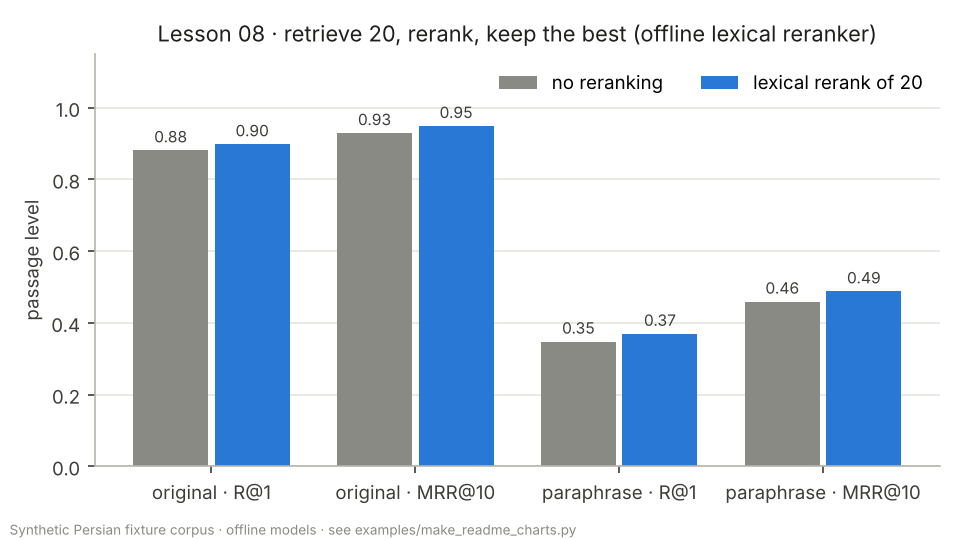
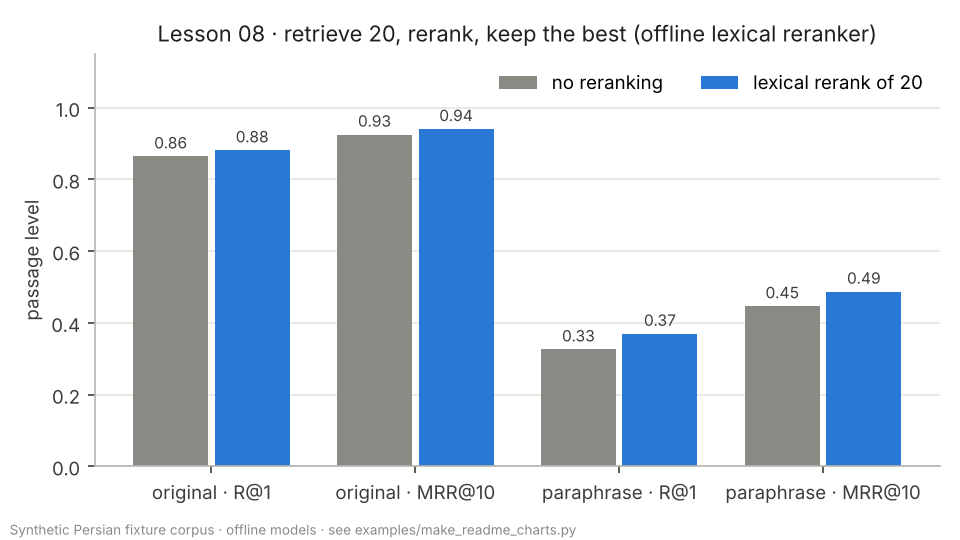
docs: recompute every benchmark number after the fixture changes
Rerun all examples, make_readme_charts.py and the lesson chart scripts;
regenerate docs/eval/baseline.json, readme_numbers.json, report.md and the
charts, and update the numbers quoted in lessons, READMEs, ROADMAP baselines
and docs/results.md from the recomputed output. Locked test expectations are
updated from the recomputed values only. Where a claim no longer held exactly
(weighted 0.5/0.5 now edges RRF within noise; diacritics ablation moves one
question) the text says so.

diff --git a/tests/test_benchmark.py b/tests/test_benchmark.py
@@ -28,11 +28,11 @@ def test_offline_embedding_table(fixtures) -> None:  # type: ignore[no-untyped-d
     docs, qa = fixtures
     assert len(docs) == 25 and sum(q.answerable for q in qa) == 59
     hashing = benchmark_embedding(HashingEmbedding(), docs, qa)
-    assert _rounded(hashing["passage"]) == (0.763, 0.983, 0.858)
+    assert _rounded(hashing["passage"]) == (0.729, 0.983, 0.841)
     word = benchmark_embedding(TfidfEmbedding("word"), docs, qa)
     assert _rounded(word["passage"]) == (0.729, 0.932, 0.836)
     char = benchmark_embedding(TfidfEmbedding("char"), docs, qa)
-    assert _rounded(char["passage"]) == (0.797, 0.983, 0.886)
+    assert _rounded(char["passage"]) == (0.797, 0.983, 0.883)
 
 
 def test_normalisation_must_match(fixtures) -> None:  # type: ignore[no-untyped-def]
@@ -45,7 +45,7 @@ def test_normalisation_must_match(fixtures) -> None:  # type: ignore[no-untyped-
         "passage"
     ]
     assert round(both.mrr, 3) == 0.836
-    assert round(index_only.mrr, 3) == 0.682
+    assert round(index_only.mrr, 3) == 0.680
 
 
 def test_index_documents_fits_tfidf(fixtures) -> None:  # type: ignore[no-untyped-def]

diff --git a/tests/test_rag.py b/tests/test_rag.py
@@ -191,7 +191,9 @@ def test_validate_qa_finds_problems() -> None:
 
     docs = [SHOP]
     items = [
-        QAItem(id="1", question="هزینهٔ پیک؟", answer="۲۰۰", doc_id="shop", evidence="۲۰۰ هزار تومان"),
+        QAItem(
+            id="1", question="هزینهٔ پیک؟", answer="۲۰۰", doc_id="shop", evidence="۲۰۰ هزار تومان"
+        ),
         QAItem(id="2", question="؟", answer="-", doc_id="shop"),
         QAItem(id="2", question=" ", answer="-", doc_id=None, evidence="x"),
         QAItem(id="3", question="پیک؟", answer="-", doc_id="shop", evidence="۵۰ هزار تومان"),

diff --git a/tests/test_chunking.py b/tests/test_chunking.py
@@ -191,7 +191,7 @@ def test_numbers_quoted_in_lesson04() -> None:
     docs = bench.load_directory(CORPUS, "*.md")
     n, _, fixed = bench.run(docs, FixedSizeChunker(200, 25))
     assert n == 175
-    assert (round(fixed["P-R@3"], 3), round(fixed["P-MRR"], 3)) == (0.780, 0.670)
+    assert (round(fixed["P-R@3"], 3), round(fixed["P-MRR"], 3)) == (0.763, 0.660)
     n, _, best = bench.run(docs, RecursiveChunker(400, 50), heading_context=True)
     assert n == 109
-    assert (round(best["P-R@3"], 3), round(best["P-MRR"], 3)) == (0.983, 0.858)
+    assert (round(best["P-R@3"], 3), round(best["P-MRR"], 3)) == (0.983, 0.841)

diff --git a/lessons/11-agentic-rag/tests/test_lesson11_agent.py b/lessons/11-agentic-rag/tests/test_lesson11_agent.py
@@ -259,7 +259,7 @@ def test_your_agent_reproduces_the_lesson_numbers(ag: ModuleType, rag: PersianRA
     para = evaluate_pipeline(
         agent, load_fixture_benchmark(qa_file="qa_paraphrase.jsonl")[1], n_resamples=10
     )
-    assert original.metrics["answer_f1"] == pytest.approx(0.314, abs=1e-3)
+    assert original.metrics["answer_f1"] == pytest.approx(0.301, abs=1e-3)
     assert original.metrics["abstention_f1"] == pytest.approx(0.714, abs=1e-3)
     assert para.metrics["retrieval_r@1"] == pytest.approx(0.478, abs=1e-3)
     assert para.metrics["answered_rate"] == pytest.approx(0.348, abs=1e-3)

diff --git a/lessons/07-hybrid-search/tests/test_lesson07_hybrid.py b/lessons/07-hybrid-search/tests/test_lesson07_hybrid.py
@@ -242,6 +242,6 @@ def test_hybrid_beats_both_on_the_fixtures(rt: ModuleType) -> None:
     dense = rt.DenseRetriever(store)
     hybrid = rt.HybridRetriever([bm25, dense])
     m_bm25, m_dense, m_hybrid = (_mrr(qa, r) for r in (bm25, dense, hybrid))
-    assert m_bm25 > 0.85 and m_dense > 0.85
+    assert m_bm25 > 0.83 and m_dense > 0.83
     assert m_hybrid > max(m_bm25, m_dense)
     assert _mrr(para, hybrid) < m_hybrid - 0.3

diff --git a/lessons/10-evaluation/tests/test_lesson10_eval.py b/lessons/10-evaluation/tests/test_lesson10_eval.py
@@ -55,7 +55,9 @@ def test_token_f1(gm: ModuleType, pred: str, ref: str, f1: float) -> None:
 
 
 def _item() -> QAItem:
-    return QAItem(id="q", question="؟", answer="200", doc_id="ship", evidence="پیک در تهران 200 هزار")
+    return QAItem(
+        id="q", question="؟", answer="200", doc_id="ship", evidence="پیک در تهران 200 هزار"
+    )
 
 
 @hint(

diff --git a/lessons/08-reranking/README.fa.md b/lessons/08-reranking/README.fa.md
@@ -63,48 +63,48 @@ python examples/reranking.py --chart
 
 | حالت | اصلی R@1 | R@3 | MRR@10 | بازنویسی R@1 | R@3 | MRR@10 |
 |---|---|---|---|---|---|---|
-| بدون بازرتبهبندی | 0.881 | 0.966 | 0.929 | 0.348 | 0.522 | 0.459 |
-| **بازرتبهساز واژگانی (پیشفرض)** | **0.898** | **1.000** | **0.949** | 0.370 | 0.522 | 0.488 |
-| بازرتبهساز واژگانی + وزن idf | 0.864 | 0.966 | 0.917 | 0.261 | 0.457 | 0.415 |
+| بدون بازرتبهبندی | 0.864 | 0.983 | 0.925 | 0.326 | 0.500 | 0.447 |
+| **بازرتبهساز واژگانی (پیشفرض)** | **0.881** | **1.000** | **0.941** | 0.370 | 0.543 | 0.487 |
+| بازرتبهساز واژگانی + وزن idf | 0.847 | 0.966 | 0.908 | 0.261 | 0.478 | 0.414 |
 
 ![R@1 با و بدون بازرتبهبندی](../../docs/images/rerank_r1.png)
 
-- روی پرسشهای اصلی، بازرتبهبندی **هر** پاسخ را به ۳ قطعهٔ اول آورد (R@3 = ۱٫۰۰۰) و R@1 یک پرسش بهتر شد (۰٫۸۸۱ → ۰٫۸۹۸). روی بازنویسیها هم کمی بهتر (MRR ۰٫۴۵۹ → ۰٫۴۸۸)، ولی اینها چند پرسشاند، نه یک تحول. درس ۱۰ با بوتاسترپ جفتی نشان میدهد این بهبود با ۵۹ پرسش **قابل اثبات نیست** (بازهٔ ۹۵٪ ΔMRR: [۰٫۰۱۴-، ۰٫۰۵۸+]).
+- روی پرسشهای اصلی، بازرتبهبندی **هر** پاسخ را به ۳ قطعهٔ اول آورد (R@3 = ۱٫۰۰۰) و R@1 یک پرسش بهتر شد (۰٫۸۶۴ → ۰٫۸۸۱). روی بازنویسیها هم کمی بهتر (MRR ۰٫۴۴۷ → ۰٫۴۸۷)، ولی اینها چند پرسشاند، نه یک تحول. درس ۱۰ با بوتاسترپ جفتی نشان میدهد این بهبود با ۵۹ پرسش **قابل اثبات نیست** (بازهٔ ۹۵٪ ΔMRR: [۰٫۰۱۴-، ۰٫۰۴۷+]).
 - **وزن idf ضرر زد** — برخلاف شهود. حدس ما: با idf، یک واژهٔ کمیاب ولی بیربط در پرسش (مثل «کهربا» که فقط در بعضی قطعهها آمده) وزن زیادی میگیرد. بهجای حدس زدن، `per_question` را باز کنید و ببینید.
 
 ### آزمایش جداسازی (Ablation): نزدیکی و پیشین
 
 | proximity / prior | اصلی R@1 | R@3 | MRR@10 | بازنویسی R@1 | R@3 | MRR@10 |
 |---|---|---|---|---|---|---|
-| 0.0 / 0.0 (پیشفرض) | 0.898 | 1.000 | 0.949 | 0.370 | 0.522 | 0.488 |
-| 0.0 / 0.2 | 0.898 | 1.000 | 0.946 | 0.370 | 0.543 | 0.494 |
-| 0.3 / 0.0 | 0.797 | 0.898 | 0.857 | 0.370 | 0.543 | 0.484 |
-| 0.3 / 0.2 | 0.898 | 0.966 | 0.941 | 0.435 | 0.543 | 0.523 |
-| 0.6 / 0.0 | 0.678 | 0.847 | 0.766 | 0.348 | 0.500 | 0.458 |
-| 0.6 / 0.2 | 0.763 | 0.881 | 0.831 | 0.326 | 0.522 | 0.456 |
+| 0.0 / 0.0 (پیشفرض) | 0.881 | 1.000 | 0.941 | 0.370 | 0.543 | 0.487 |
+| 0.0 / 0.2 | 0.881 | 1.000 | 0.938 | 0.370 | 0.543 | 0.492 |
+| 0.3 / 0.0 | 0.797 | 0.898 | 0.857 | 0.370 | 0.565 | 0.484 |
+| 0.3 / 0.2 | 0.881 | 0.983 | 0.936 | 0.413 | 0.565 | 0.504 |
+| 0.6 / 0.0 | 0.678 | 0.847 | 0.766 | 0.348 | 0.522 | 0.457 |
+| 0.6 / 0.2 | 0.763 | 0.881 | 0.831 | 0.326 | 0.543 | 0.454 |
 
 صادقانه: **نزدیکی روی پرسشهای اصلی در هیچ تنظیمی کمک نکرد** و بدون پیشین شدیداً ضرر زد (R@1 تا ۰٫۶۷۸ افتاد). یک دلیل احتمالی: قطعههای ما با «زمینهٔ سرتیتر» شروع میشوند (درس ۰۴)، و دو واژهٔ رایج پرسش که کنار هم در یک سرتیتر آمدهاند، امتیاز نزدیکی کامل میگیرند. پس پیشفرض را **۰** گذاشتیم؛ کدش هست تا روی دادهٔ خودتان امتحان کنید.
 
-و یک دام آموزنده: ردیف `0.3 / 0.2` روی بازنویسیها بهترین است (R@1 ۰٫۴۳۵). اگر تنظیم را روی مجموعهٔ بازنویسی انتخاب میکردیم، عدد گزارششدهمان **خوشبینانه** میشد — این همان **بیشبرازش روی مجموعهٔ آزمون (Overfitting to the test set)** است. روی یک مجموعه تنظیم کنید، روی مجموعهٔ دیگر گزارش دهید (درس ۱۰).
+و یک دام آموزنده: ردیف `0.3 / 0.2` روی بازنویسیها بهترین است (R@1 ۰٫۴۱۳). اگر تنظیم را روی مجموعهٔ بازنویسی انتخاب میکردیم، عدد گزارششدهمان **خوشبینانه** میشد — این همان **بیشبرازش روی مجموعهٔ آزمون (Overfitting to the test set)** است. روی یک مجموعه تنظیم کنید، روی مجموعهٔ دیگر گزارش دهید (درس ۱۰).
 
 ### چند نامزد؟ تأخیر و هزینه
 
 | fetch_k | اصلی R@1 | بازنویسی MRR@10 | زمان هر پرسش (ms، تقریبی) |
 |---|---|---|---|
-| — (بدون بازرتبهبندی) | 0.881 | 0.459 | ~2 |
-| 10 | 0.898 | 0.469 | ~5 |
-| 20 | 0.898 | 0.488 | ~9 |
-| 40 | 0.898 | 0.482 | ~17 |
+| — (بدون بازرتبهبندی) | 0.864 | 0.447 | ~2 |
+| 10 | 0.881 | 0.487 | ~5 |
+| 20 | 0.881 | 0.487 | ~9 |
+| 40 | 0.881 | 0.479 | ~17 |
 
 (زمانها روی کامپیوتر ما اندازهگیری شدهاند و روی کامپیوتر شما فرق میکنند؛ نسبتها مهماند.)
 
-زمان بازرتبهبندی با تعداد نامزدها **خطی** رشد میکند، ولی کیفیت بعد از ۲۰ دیگر بهتر نمیشود. با یک LLM این بدهبستان خیلی گرانتر است. `LLMReranker` نقطهای (Pointwise) است: برای هر نامزد یک فراخوانی. اسکریپت هزینه را **بدون** صدا زدن هیچ مدلی تخمین میزند (`FakeLLM` فراخوانیها را ثبت میکند و `estimate_tokens` درس ۰۴ توکنها را تخمین میزند):
+زمان بازرتبهبندی با تعداد نامزدها **خطی** رشد میکند، ولی کیفیت بعد از ۲۰ دیگر بهتر نمیشود (روی این داده MRR بازنویسیها با ۱۰ و ۲۰ نامزد برابر است و فقط R@3 بازنویسیها با ۲۰ کمی بهتر است). با یک LLM این بدهبستان خیلی گرانتر است. `LLMReranker` نقطهای (Pointwise) است: برای هر نامزد یک فراخوانی. اسکریپت هزینه را **بدون** صدا زدن هیچ مدلی تخمین میزند (`FakeLLM` فراخوانیها را ثبت میکند و `estimate_tokens` درس ۰۴ توکنها را تخمین میزند):
 
 | fetch_k | فراخوانی LLM برای هر پرسش | توکن ورودی برای هر پرسش (≈) |
 |---|---|---|
-| 10 | 10 | 2,866 |
-| 20 | 20 | 5,710 |
-| 40 | 40 | 11,384 |
+| 10 | 10 | 2,865 |
+| 20 | 20 | 5,713 |
+| 40 | 40 | 11,381 |
 
 یعنی بازرتبهبندی با LLM برای ۲۰ نامزد حدود **۲۰ برابر** فراخوانیها و چند برابر توکنهای خود تولید پاسخ است، بهعلاوهٔ تأخیر ۲۰ درخواست (مگر موازی بفرستید). برای همین در محصول معمولاً یک رمزگذار متقاطع کوچک کافی و خیلی ارزانتر است.
 

diff --git a/lessons/07-hybrid-search/README.fa.md b/lessons/07-hybrid-search/README.fa.md
@@ -117,25 +117,25 @@ python examples/hybrid_search.py --chart
 | BM25 + ریشهیابی سبک | 0.814 | 0.983 | 0.893 | 0.370 | 0.478 | 0.448 |
 | BM25 + شکستن در نیمفاصله | 0.763 | 0.949 | 0.858 | 0.391 | 0.500 | 0.474 |
 | BM25 + حذف ایستواژهها | 0.814 | 0.949 | 0.892 | 0.370 | 0.457 | 0.430 |
-| dense (hashing) | 0.763 | 0.983 | 0.858 | 0.196 | 0.457 | 0.355 |
-| **RRF (BM25 + dense)** | 0.831 | 0.983 | 0.903 | 0.391 | 0.478 | 0.475 |
-| **RRF (BM25 + ریشهیابی + dense)** | **0.881** | 0.966 | **0.929** | 0.348 | **0.522** | 0.468 |
-| وزنی ۰٫۵ / ۰٫۵ | 0.881 | 0.983 | 0.928 | 0.370 | 0.457 | 0.459 |
-| وزنی ۰٫۳ / ۰٫۷ (برداری سنگینتر) | 0.864 | 0.983 | 0.919 | 0.304 | 0.478 | 0.421 |
-| وزنی ۰٫۷ / ۰٫۳ (BM25 سنگینتر) | 0.864 | 0.966 | 0.918 | 0.413 | 0.457 | 0.467 |
+| dense (hashing) | 0.729 | 0.983 | 0.841 | 0.196 | 0.391 | 0.349 |
+| **RRF (BM25 + dense)** | 0.831 | 0.983 | 0.905 | 0.370 | 0.478 | 0.467 |
+| **RRF (BM25 + ریشهیابی + dense)** | 0.864 | 0.983 | 0.925 | 0.326 | **0.500** | 0.453 |
+| وزنی ۰٫۵ / ۰٫۵ | **0.881** | **1.000** | **0.932** | 0.370 | 0.457 | 0.455 |
+| وزنی ۰٫۳ / ۰٫۷ (برداری سنگینتر) | 0.864 | **1.000** | 0.924 | 0.304 | 0.478 | 0.421 |
+| وزنی ۰٫۷ / ۰٫۳ (BM25 سنگینتر) | 0.847 | 0.966 | 0.910 | 0.413 | 0.435 | 0.465 |
 
 ![MRR بازیابها روی دو مجموعهٔ پرسش](../../docs/images/hybrid_mrr.png)
 
 چه یاد گرفتیم:
 
-- **ترکیب جواب میدهد.** روی پرسشهای اصلی، RRF از هر دو روش تنها بهتر است (MRR ۰٫۹۰۳ در برابر ۰٫۸۷۲ و ۰٫۸۵۸)، چون دو روش اشتباههای **متفاوتی** میکنند: BM25 کلمهٔ دقیق را میخواهد و hashing شباهت حرفی را.
+- **ترکیب جواب میدهد.** روی پرسشهای اصلی، RRF از هر دو روش تنها بهتر است (MRR ۰٫۹۰۵ در برابر ۰٫۸۷۲ و ۰٫۸۴۱)، چون دو روش اشتباههای **متفاوتی** میکنند: BM25 کلمهٔ دقیق را میخواهد و hashing شباهت حرفی را.
 - **ریشهیابی سبک: کمک کوچک، نه قطعی.** روی پرسشهای اصلی MRR از ۰٫۸۷۲ به ۰٫۸۹۳ رسید (یعنی حدود دو پرسش جابهجا شد؛ هر پرسش ≈ ۱٫۷ واحد درصد R@1)، روی بازنویسیها ۰٫۴۳۴ → ۰٫۴۴۸ — در حد نویز. صادقانه: با این مجموعههای کوچک نمیتوانیم بگوییم واقعاً کمک میکند؛ فقط ضرر نمیزند. درس ۱۰ این را با **بوتاسترپ جفتی** میسنجد: بازهٔ ۹۵٪ بهبود MRR روی پرسشهای اصلی [۰٫۰۱۲-، ۰٫۰۵۹+] است — صفر داخلش است. از ادعاهای این جدول، فقط «ترکیبی بهتر از dense تنهاست» آن آزمون را پاس میکند.
 - **شکستن در نیمفاصله** روی بازنویسیها بهترین BM25 است (۰٫۴۷۴) ولی روی اصلی کمی بدتر — یک بدهبستان، نه برد.
 - **ایستواژهها (Stop words)** تقریباً اثری ندارند: `idf` خودش «است» و «در» را کموزن میکند.
-- **وزنها حساساند.** وزنی ۰٫۵/۰٫۵ روی اصلی همپای بهترین است، ولی ۰٫۳/۰٫۷ روی بازنویسیها R@1 را به ۰٫۳۰۴ میاندازد. RRF بدون هیچ تنظیمی نزدیک بهترین است؛ برای همین **پیشفرض خوبی** است.
-- **و درس بزرگ: فاصلهٔ واژگانی.** همهٔ روشها روی بازنویسیها حدود **نصف** میشوند (MRR ≈ ۰٫۴۵). هیچ ترفند توکنسازیای «کرایه» را به «هزینه» یا «پس دادن» را به «مرجوعی» وصل نمیکند. این دقیقاً جای **برداریساز عصبی** است — و `HashingEmbedding` با وجود اسم «dense» در اصل واژگانی است (روی بازنویسیها از BM25 هم بدتر: ۰٫۳۵۵).
+- **وزنها حساساند.** وزنی ۰٫۵/۰٫۵ روی اصلی کمی از RRF جلوتر است (MRR ۰٫۹۳۲ در برابر ۰٫۹۲۵ — حدود یک پرسش، در حد نویز)، ولی ۰٫۳/۰٫۷ روی بازنویسیها R@1 را به ۰٫۳۰۴ میاندازد و ۰٫۷/۰٫۳ روی اصلی به ۰٫۸۴۷. RRF بدون هیچ تنظیمی نزدیک بهترین است؛ برای همین **پیشفرض خوبی** است.
+- **و درس بزرگ: فاصلهٔ واژگانی.** همهٔ روشها روی بازنویسیها حدود **نصف** میشوند (MRR ≈ ۰٫۴۵). هیچ ترفند توکنسازیای «کرایه» را به «هزینه» یا «پس دادن» را به «مرجوعی» وصل نمیکند. این دقیقاً جای **برداریساز عصبی** است — و `HashingEmbedding` با وجود اسم «dense» در اصل واژگانی است (روی بازنویسیها از BM25 هم بدتر: ۰٫۳۴۹).
 
-> انتخاب دوره از این به بعد: **RRF (BM25 + ریشهیابی سبک + dense)** با ۲۰ نامزد از هر بازیاب. دلیل: بهترین روی پرسشهای اصلی، در حد بقیه روی بازنویسیها، و بدون وزنی که باید تنظیم شود.
+> انتخاب دوره از این به بعد: **RRF (BM25 + ریشهیابی سبک + dense)** با ۲۰ نامزد از هر بازیاب. دلیل: در حد بهترین روی پرسشهای اصلی (فقط وزنی ۰٫۵/۰٫۵ با اختلافی در حد نویز جلوتر است)، در حد بقیه روی بازنویسیها، و بدون وزنی که باید تنظیم شود.
 
 ### با یک مدل عصبی واقعی، روی کامپیوتر خودتان
 

diff --git a/lessons/10-evaluation/README.fa.md b/lessons/10-evaluation/README.fa.md
@@ -114,18 +114,18 @@ python -m parsrag.eval run --json report.json --markdown report.md
 
 | معیار | اصلی (۶۶ پرسش) | بازنویسی (۵۱ پرسش) |
 |---|---|---|
-| بازیابی R@1 | 0.898 [0.814, 0.966] | 0.370 [0.239, 0.500] |
-| بازیابی MRR@10 | 0.949 [0.907, 0.983] | 0.488 [0.372, 0.600] |
-| F1 پاسخ (امتناع = ۰) | 0.289 [0.221, 0.360] | 0.016 [0.005, 0.031] |
-| دقت ارجاع | 0.860 [0.772, 0.947] | 0.800 [0.500, 1.000] |
+| بازیابی R@1 | 0.881 [0.797, 0.949] | 0.370 [0.239, 0.500] |
+| بازیابی MRR@10 | 0.941 [0.898, 0.975] | 0.487 [0.373, 0.600] |
+| F1 پاسخ (امتناع = ۰) | 0.276 [0.210, 0.344] | 0.016 [0.005, 0.031] |
+| دقت ارجاع | 0.842 [0.737, 0.930] | 0.800 [0.500, 1.000] |
 | وفاداری (ابتکاری) | 1.000 | 1.000 |
 | «نمیدانم» F1 | 0.714 | 0.178 |
 | نرخ پاسخ به پرسشهای پاسخدار | 0.966 | 0.217 |
 
 چطور بخوانیم:
 
-- **وفاداری ۱٫۰ ولی F1 پاسخ ۰٫۲۹.** `FakeLLM` استخراجی جملهها را عیناً کپی میکند، پس هرگز توهم نمیزند — ولی اغلب جملهٔ **اشتباه** یا یک جملهٔ طولانی را برمیدارد. **وفادار بودن با درست بودن یکی نیست**؛ هر دو را بسنجید.
-- **دقت ارجاع ۰٫۸۶**: در ۱۴٪ پاسخها، قطعهٔ ارجاعشده شاهد پاسخ را ندارد — یعنی مدل از قطعهٔ دیگری جمله برداشته.
+- **وفاداری ۱٫۰ ولی F1 پاسخ ۰٫۲۸.** `FakeLLM` استخراجی جملهها را عیناً کپی میکند، پس هرگز توهم نمیزند — ولی اغلب جملهٔ **اشتباه** یا یک جملهٔ طولانی را برمیدارد. **وفادار بودن با درست بودن یکی نیست**؛ هر دو را بسنجید.
+- **دقت ارجاع ۰٫۸۴**: در ۱۶٪ پاسخها، قطعهٔ ارجاعشده شاهد پاسخ را ندارد — یعنی مدل از قطعهٔ دیگری جمله برداشته.
 - **روی بازنویسیها پایپلاین عملاً از کار میافتد**: فقط به ۲۲٪ پرسشهای پاسخدار جواب میدهد (آستانهٔ BM25 درس ۰۹) و F1 تقریباً صفر است. این مهمترین یافتهٔ این دوره تا اینجاست، و دقیقاً همان چیزی که یک برداریساز عصبی و یک LLM واقعی باید درست کنند. **اندازه بگیرید**، فرض نکنید.
 
 ## چقدر مطمئنیم؟ بوتاسترپ
@@ -135,7 +135,7 @@ python -m parsrag.eval run --json report.json --markdown report.md
 ```python
 from parsrag.eval.stats import bootstrap_ci, paired_bootstrap
 
-bootstrap_ci(per_question_rr)            # Interval(mean=0.949, low=0.907, high=0.983)
+bootstrap_ci(per_question_rr)            # Interval(mean=0.941, low=0.898, high=0.975)
 paired_bootstrap(rr_before, rr_after)    # بازهٔ اطمینانِ «بعد − قبل» روی همان پرسشها
 ```
 
@@ -148,9 +148,9 @@ python examples/evaluation_report.py
 | ادعا | اصلی ΔMRR [۹۵٪] | بازنویسی ΔMRR [۹۵٪] |
 |---|---|---|
 | درس ۰۷: ریشهیابی سبک به BM25 کمک میکند | +0.021 [-0.012, +0.059] **نشان داده نشد** | +0.017 [-0.040, +0.082] **نشان داده نشد** |
-| درس ۰۷: ترکیبی بهتر از dense تنهاست | +0.072 [+0.018, +0.134] **واقعی** | +0.117 [+0.032, +0.211] **واقعی** |
-| درس ۰۷: ترکیبی بهتر از BM25 + ریشهیابی است | +0.036 [-0.008, +0.084] **نشان داده نشد** | +0.020 [-0.046, +0.077] **نشان داده نشد** |
-| درس ۰۸: بازرتبهبندی کمک میکند | +0.020 [-0.014, +0.058] **نشان داده نشد** | +0.029 [-0.039, +0.103] **نشان داده نشد** |
+| درس ۰۷: ترکیبی بهتر از dense تنهاست | +0.084 [+0.028, +0.148] **واقعی** | +0.109 [+0.031, +0.196] **واقعی** |
+| درس ۰۷: ترکیبی بهتر از BM25 + ریشهیابی است | +0.032 [-0.005, +0.074] **نشان داده نشد** | +0.007 [-0.056, +0.067] **نشان داده نشد** |
+| درس ۰۸: بازرتبهبندی کمک میکند | +0.016 [-0.014, +0.047] **نشان داده نشد** | +0.040 [-0.028, +0.114] **نشان داده نشد** |
 
 از چهار «بهبود» درسهای قبل، فقط **یکی** با این تعداد پرسش قابل دفاع است. بقیه شاید واقعی باشند، شاید نه — دادههای ما نمیتواند بگوید. «نشان داده نشد» یعنی «نمیدانیم»، نه «اثری ندارد».
 
@@ -181,7 +181,7 @@ python -m parsrag.eval gate --baseline docs/eval/baseline.json
 | set | metric | baseline | current | Δ | |
 |---|---|---|---|---|---|
 | original | abstention_f1 | 0.714 | 0.714 | +0.000 | ✔ |
-| original | answer_f1 | 0.289 | 0.289 | +0.000 | ✔ |
+| original | answer_f1 | 0.276 | 0.276 | +0.000 | ✔ |
 ...
 ✔ no metric dropped by more than 0.02 — gate passed.
 ```

diff --git a/lessons/04-chunking/README.fa.md b/lessons/04-chunking/README.fa.md
@@ -135,18 +135,18 @@ python examples/chunking_benchmark.py --chart    # + نمودار (نیاز به
 ```text
 strategy                  size chunks avg len   P-R@1  P-R@3  P-R@5  P-MRR  D-R@1  D-R@3
 -----------------------------------------------------------------------------------------
-fixed                      200    175     188   0.525  0.780  0.847  0.670  0.881  0.966
-recursive                  200    204     141   0.576  0.864  0.966  0.732  0.864  0.949
-recursive+headings         200    204     187   0.712  0.966  0.983  0.825  0.847  0.966
-fixed                      400     96     339   0.644  0.864  0.949  0.776  0.847  0.983
+fixed                      200    175     188   0.525  0.763  0.847  0.660  0.898  0.983
+recursive                  200    204     141   0.576  0.864  0.966  0.731  0.864  0.966
+recursive+headings         200    204     187   0.695  0.966  0.983  0.820  0.847  0.966
+fixed                      400     96     339   0.661  0.898  0.949  0.788  0.864  0.983
 recursive                  400    109     266   0.712  0.949  0.966  0.824  0.814  0.983
-recursive+headings         400    109     310   0.763  0.983  0.983  0.858  0.847  0.983
+recursive+headings         400    109     310   0.729  0.983  0.983  0.841  0.847  0.983
 fixed                      800     50     630   0.814  0.932  0.966  0.881  0.932  0.983
-recursive                  800     56     517   0.831  0.949  0.983  0.894  0.932  0.983
+recursive                  800     56     517   0.831  0.949  0.966  0.894  0.949  0.983
 recursive+headings         800     56     560   0.915  0.983  0.983  0.948  0.966  0.983
-sentence-window w=0          -    369      77   0.542  0.797  0.881  0.684  0.881  0.966
-sentence-window w=1          -    369     227   0.610  0.864  0.966  0.758  0.881  0.966
-sentence-window w=2          -    369     365   0.695  0.898  0.966  0.810  0.881  0.966
+sentence-window w=0          -    369      77   0.542  0.797  0.864  0.687  0.881  0.966
+sentence-window w=1          -    369     227   0.610  0.881  0.949  0.763  0.881  0.966
+sentence-window w=2          -    369     366   0.695  0.915  0.949  0.816  0.881  0.966
 ```
 
 (`P-` = سطح قطعه، `D-` = سطح سند، `avg len` = میانگین نویسههایی که هر نتیجه به LLM میدهد.)
@@ -155,11 +155,11 @@ sentence-window w=2          -    369     365   0.695  0.898  0.966  0.810  0.88
 
 چه یاد گرفتیم:
 
-- **ساختار کمک میکند.** در هر سه اندازه، بازگشتی از اندازهٔ ثابت بهتر است (MRR در ۲۰۰ نویسه: ۰٫۶۷۰ → ۰٫۷۳۲) — با متن کمتر برای هر قطعه.
-- **زمینهٔ سرتیتر ارزانترین بُرد است.** در ۲۰۰ نویسه، Recall@3 سطح قطعه از ۰٫۸۶۴ به ۰٫۹۶۶ و MRR از ۰٫۷۳۲ به ۰٫۸۲۵ رسید؛ فقط با اضافه کردن یک خط عنوان.
-- **سطح سند تقریباً ثابت است** (D-R@3 بین ۰٫۹۵ و ۰٫۹۸). تفاوت راهبردها در پیدا کردن *قطعهٔ درست* است، نه سند درست. اگر فقط معیار سطح سند را نگاه میکردیم، این را نمیدیدیم.
+- **ساختار کمک میکند.** در هر سه اندازه، بازگشتی از اندازهٔ ثابت بهتر است (MRR در ۲۰۰ نویسه: ۰٫۶۶۰ → ۰٫۷۳۱) — با متن کمتر برای هر قطعه.
+- **زمینهٔ سرتیتر ارزانترین بُرد است.** در ۲۰۰ نویسه، Recall@3 سطح قطعه از ۰٫۸۶۴ به ۰٫۹۶۶ و MRR از ۰٫۷۳۱ به ۰٫۸۲۰ رسید؛ فقط با اضافه کردن یک خط عنوان.
+- **سطح سند تقریباً ثابت است** (D-R@3 بین ۰٫۹۷ و ۰٫۹۸). تفاوت راهبردها در پیدا کردن *قطعهٔ درست* است، نه سند درست. اگر فقط معیار سطح سند را نگاه میکردیم، این را نمیدیدیم.
 - **قطعهٔ بزرگتر اینجا برنده است — ولی بیهزینه نیست.** بیشتر اسناد ما کوتاهاند و قطعهٔ ۸۰۰ نویسهای تقریباً کل سند است؛ هر نتیجه ۳ برابر متن بیشتری (۵۶۰ در برابر ۱۸۷ نویسه) به LLM میدهد. بالاترین Recall@3 (۰٫۹۸۳) از ۴۰۰ نویسه به بعد ثابت میماند.
-- **یک جملهٔ تنها زمینهٔ کافی ندارد** (w=0: MRR ۰٫۶۸۴). پنجره کمک میکند ولی روی این داده به بازگشتی با سرتیتر نمیرسد.
+- **یک جملهٔ تنها زمینهٔ کافی ندارد** (w=0: MRR ۰٫۶۸۷). پنجره کمک میکند ولی روی این داده به بازگشتی با سرتیتر نمیرسد.
 
 **انتخاب ما برای ادامهٔ دوره:** `RecursiveChunker(400, 50)` با `heading_context=True` — بالاترین Recall@3 با حدود ۳۰۰ نویسه برای هر قطعه.
 

diff --git a/lessons/05-embeddings/README.fa.md b/lessons/05-embeddings/README.fa.md
@@ -83,14 +83,14 @@ python examples/benchmark_embeddings.py
 
 | model | dim | passage R@1 | passage R@3 | passage MRR | passage nDCG@3 | doc R@1 | time (s) |
 |---|---|---|---|---|---|---|---|
-| hashing | 1024 | 0.763 | 0.983 | 0.858 | 0.888 | 0.847 | 0.3 |
-| tfidf-word | 1193 | 0.729 | 0.932 | 0.836 | 0.850 | 0.797 | 0.2 |
-| tfidf-char | 5954 | 0.797 | 0.983 | 0.886 | 0.910 | 0.831 | 0.3 |
+| hashing | 1024 | 0.729 | 0.983 | 0.841 | 0.876 | 0.847 | 0.3 |
+| tfidf-word | 1195 | 0.729 | 0.932 | 0.836 | 0.850 | 0.797 | 0.2 |
+| tfidf-char | 5957 | 0.797 | 0.983 | 0.883 | 0.908 | 0.831 | 0.3 |
 
 (۵۹ پرسش پاسخدار؛ زمان یعنی کل نمایهسازی + ارزیابی روی همین کامپیوتر.)
 
 - **TF-IDF واژهای** از همه ضعیفتر است: «کتاب» و «کتابها» یا «امانت» و «امانتی» برایش واژههای کاملاً جدا هستند. فارسی صرف (Morphology) غنی دارد و تطبیق کلکلمه این را از دست میدهد.
-- **n-gram حرفی** این مشکل را تا حدی حل میکند: `TfidfEmbedding("char")` در معیارهای سطح قطعه بهترین است (MRR ۰٫۸۸۶؛ در R@3 با hashing برابر) و `HashingEmbedding` که آن هم n-gram حرفی دارد، دوم است.
+- **n-gram حرفی** این مشکل را تا حدی حل میکند: `TfidfEmbedding("char")` در معیارهای سطح قطعه بهترین است (MRR ۰٫۸۸۳؛ در R@3 با hashing برابر) و `HashingEmbedding` که آن هم n-gram حرفی دارد، دوم است.
 - ولی همهٔ این روشها **واژگانی (Lexical)** هستند. پرسشهای ما عمداً با واژههای خود اسناد نوشته شدهاند؛ در دنیای واقعی کاربر میپرسد «کرایهٔ پیک» و سند نوشته «هزینهٔ ارسال». اینجاست که مدلهای عصبی برنده میشوند — و این را باید **خودتان** اندازه بگیرید (پایینتر).
 
 ## اندازهگیری ۲: نرمالسازی ناهمسان
@@ -103,13 +103,13 @@ python examples/benchmark_embeddings.py --mismatch
 
 | حالت | hashing | tfidf-word | tfidf-char |
 |---|---|---|---|
-| پرسشهای تمیز، نرمالسازی هر دو طرف | 0.983 / 0.858 | 0.932 / 0.836 | 0.983 / 0.886 |
-| پرسشهای «صفحهکلید عربی»، نرمالسازی هر دو طرف | 0.983 / 0.858 | 0.932 / 0.836 | 0.983 / 0.886 |
-| پرسشهای «صفحهکلید عربی»، نرمالسازی **فقط اسناد** | 0.847 / 0.808 | 0.814 / 0.682 | 0.932 / 0.859 |
-| پرسشهای «صفحهکلید عربی»، بدون نرمالسازی | 0.831 / 0.775 | 0.746 / 0.611 | 0.847 / 0.759 |
+| پرسشهای تمیز، نرمالسازی هر دو طرف | 0.983 / 0.841 | 0.932 / 0.836 | 0.983 / 0.883 |
+| پرسشهای «صفحهکلید عربی»، نرمالسازی هر دو طرف | 0.983 / 0.841 | 0.932 / 0.836 | 0.983 / 0.883 |
+| پرسشهای «صفحهکلید عربی»، نرمالسازی **فقط اسناد** | 0.847 / 0.787 | 0.797 / 0.680 | 0.932 / 0.860 |
+| پرسشهای «صفحهکلید عربی»، بدون نرمالسازی | 0.814 / 0.761 | 0.746 / 0.611 | 0.847 / 0.759 |
 
 - با نرمالسازی **هر دو طرف**، پرسشهای شلخته **دقیقاً همان نتیجه** را میگیرند که پرسشهای تمیز.
-- نرمال کردن **فقط اسناد** برای TF-IDF واژهای MRR را از ۰٫۸۳۶ به ۰٫۶۸۲ میاندازد — تقریباً به بدی حالتی که هیچ نرمالسازی نکنیم.
+- نرمال کردن **فقط اسناد** برای TF-IDF واژهای MRR را از ۰٫۸۳۶ به ۰٫۶۸۰ میاندازد — تقریباً به بدی حالتی که هیچ نرمالسازی نکنیم.
 - n-gram حرفی مقاومتر است (بخشی از n-gramها حرف عربی ندارند)، ولی باز هم افت میکند.
 
 یک نکتهٔ صادقانه: با پرسشهای تمیز خودمان، «فقط اسناد» با «هر دو طرف» فرقی نداشت — چون پرسشها از اول تمیز بودند. ناهمسانی وقتی گاز میگیرد که ورودی کاربر شلخته باشد، و در محصول واقعی همیشه هست.
@@ -136,7 +136,7 @@ python examples/benchmark_embeddings.py --model openai:nomic-embed-text --base-u
 
 | model | dim | passage R@1 | passage R@3 | passage MRR | passage nDCG@3 | doc R@1 | time (s) |
 |---|---|---|---|---|---|---|---|
-| hashing (مرجع) | 1024 | 0.763 | 0.983 | 0.858 | 0.888 | 0.847 | 0.3 |
+| hashing (مرجع) | 1024 | 0.729 | 0.983 | 0.841 | 0.876 | 0.847 | 0.3 |
 | *(نتیجهٔ شما)* | | | | | | | |
 | *(نتیجهٔ شما)* | | | | | | | |
 

diff --git a/docs/results.md b/docs/results.md
@@ -28,19 +28,19 @@ NFKC بیشتر متن PDF با ترتیب منطقی را برمیگردان
 
 ![MRR سطح قطعه برای راهبردهای قطعهبندی](images/readme_chunking.png)
 
-در هر اندازه، قطعهبندی بازگشتی با سرتیتر بهترین است؛ سرتیتر ارزانترین بهبود است (پنجرهٔ ثابت ۲۰۰: MRR ۰٫۶۷ ← بازگشتی با سرتیتر ۲۰۰: ۰٫۸۳). پیشفرض دوره بازگشتی ۴۰۰ با سرتیتر است (۰٫۸۶). [درس ۰۴](lessons/04-chunking.md)
+در هر اندازه، قطعهبندی بازگشتی با سرتیتر بهترین است؛ سرتیتر ارزانترین بهبود است (پنجرهٔ ثابت ۲۰۰: MRR ۰٫۶۶ ← بازگشتی با سرتیتر ۲۰۰: ۰٫۸۲). پیشفرض دوره بازگشتی ۴۰۰ با سرتیتر است (۰٫۸۴). [درس ۰۴](lessons/04-chunking.md)
 
 ## جستوجوی ترکیبی (درس ۰۷)
 
 ![BM25، برداری و ترکیبی روی دو مجموعهٔ پرسش](images/readme_hybrid.png)
 
-روی پرسشهای اصلی، RRF روی BM25 (با ریشهیابی سبک) و برداری بهترین MRR را دارد (۰٫۹۳). بازنویسیها همهٔ روشهای واژگانی را نصف میکنند و `HashingEmbedding` — که زیر پوستش واژگانی است — بدترین است (۰٫۳۵). بوتاسترپ جفتی درس ۱۰ فقط «ترکیبی بهتر از برداری تنها» را قابلدفاع میداند. [درس ۰۷](lessons/07-hybrid-search.md)
+روی پرسشهای اصلی، RRF روی BM25 (با ریشهیابی سبک) و برداری بهترین MRR را در میان روشهای بدون تنظیم دارد (۰٫۹۳؛ ترکیب وزنی ۰٫۵/۰٫۵ با اختلافی در حد نویز جلوتر است). بازنویسیها همهٔ روشهای واژگانی را نصف میکنند و `HashingEmbedding` — که زیر پوستش واژگانی است — بدترین است (۰٫۳۵). بوتاسترپ جفتی درس ۱۰ فقط «ترکیبی بهتر از برداری تنها» را قابلدفاع میداند. [درس ۰۷](lessons/07-hybrid-search.md)
 
 ## بازرتبهبندی (درس ۰۸)
 
 ![R@1 و MRR با و بدون بازرتبهبندی](images/readme_rerank.png)
 
-بازرتبهساز واژگانی آفلاین روی ۲۰ نامزد: R@1 از ۰٫۸۸ به ۰٫۹۰ (اصلی) و از ۰٫۳۵ به ۰٫۳۷ (بازنویسی). بازهٔ اطمینان این بهبود صفر را در بر دارد؛ بازرتبهساز متقاطع واقعی را با `examples/reranking.py --cross-encoder` بسنجید. [درس ۰۸](lessons/08-reranking.md)
+بازرتبهساز واژگانی آفلاین روی ۲۰ نامزد: R@1 از ۰٫۸۶ به ۰٫۸۸ (اصلی) و از ۰٫۳۳ به ۰٫۳۷ (بازنویسی). بازهٔ اطمینان این بهبود صفر را در بر دارد؛ بازرتبهساز متقاطع واقعی را با `examples/reranking.py --cross-encoder` بسنجید. [درس ۰۸](lessons/08-reranking.md)
 
 ## عامل در برابر پایپلاین (درس ۱۱)
 
@@ -54,10 +54,10 @@ NFKC بیشتر متن PDF با ترتیب منطقی را برمیگردان
 
 | معیار | اصلی | بازنویسی |
 |---|---|---|
-| بازیابی R@1 [بازهٔ ۹۵٪] | 0.898 [0.814, 0.966] | 0.370 [0.239, 0.500] |
-| بازیابی MRR@10 | 0.949 | 0.488 |
-| F1 پاسخ («نمیدانم» = ۰) | 0.289 | 0.016 |
-| دقت ارجاع | 0.860 | 0.800 |
+| بازیابی R@1 [بازهٔ ۹۵٪] | 0.881 [0.797, 0.949] | 0.370 [0.239, 0.500] |
+| بازیابی MRR@10 | 0.941 | 0.487 |
+| F1 پاسخ («نمیدانم» = ۰) | 0.276 | 0.016 |
+| دقت ارجاع | 0.842 | 0.800 |
 | وفاداری (ابتکاری) | 1.000 | 1.000 |
 | F1 «نمیدانم» | 0.714 | 0.178 |
 | نرخ پاسخ به پرسشهای پاسخدار | 0.966 | 0.217 |
